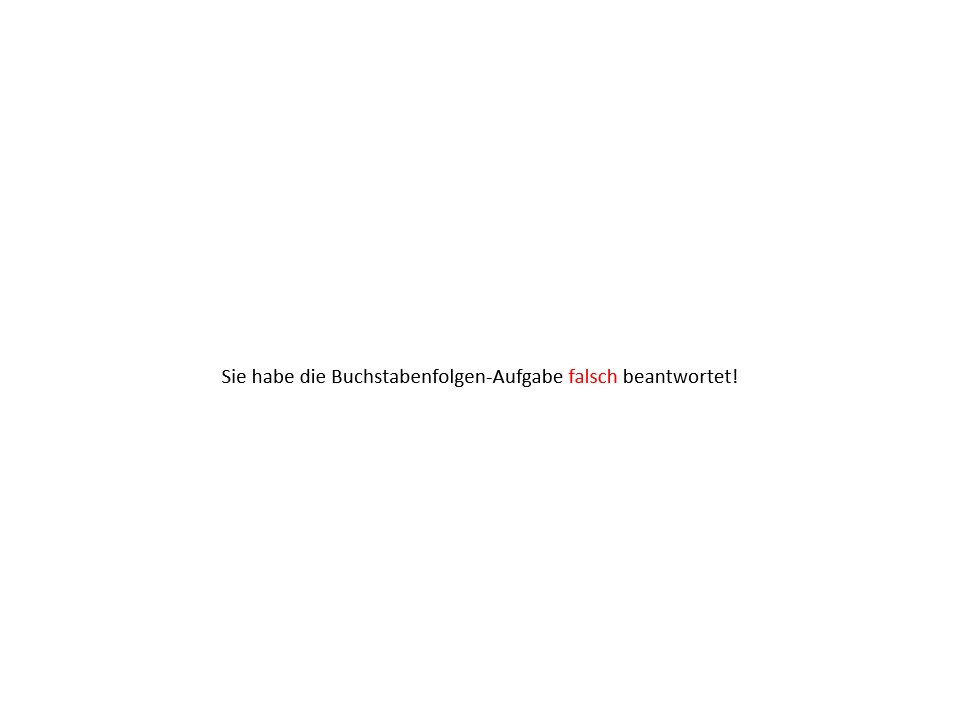
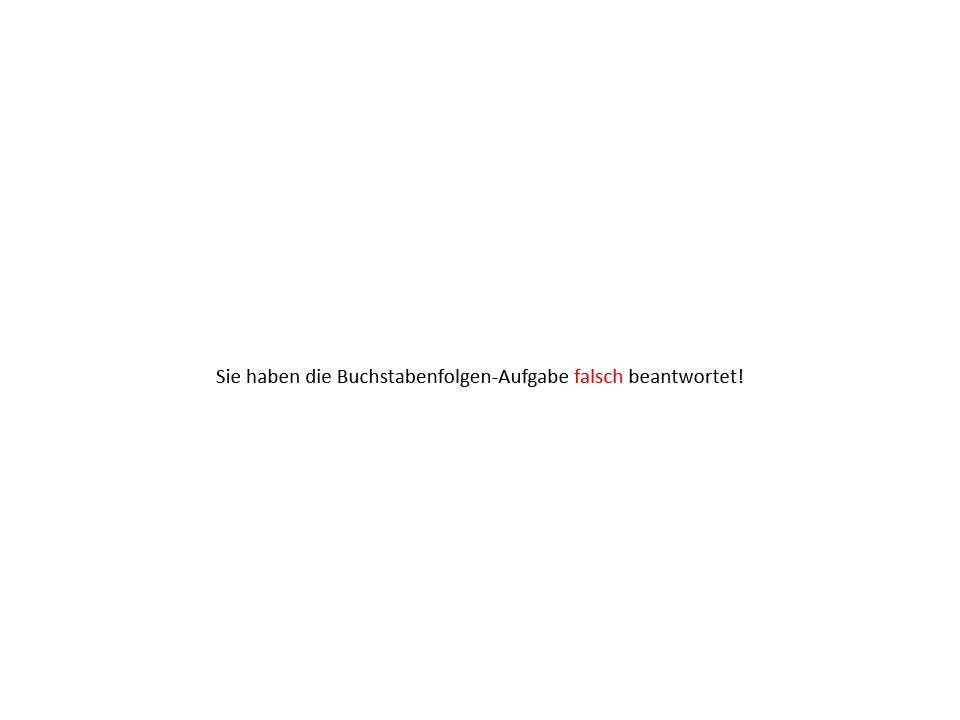
fixed bug with StimSched. fixed typo.

Changed region(s): [[0.2188, 0.4889, 0.7812, 0.55]]

diff --git a/html/lib/single_sheduler.js b/html/lib/single_sheduler.js
@@ -8,6 +8,7 @@ import * as sound from './psychojs/sound-2020.1.js';
 import {Ord_stim} from './stims/ord_stim.js';
 import {InstuctionsScheduler} from './instructions_sheduler.js';
 import {FixationStim} from './stims/fixation_stim.js';
+import {StimScheduler} from './stim_scheduler.js';
 import * as SchedulerUtils from './util/scheduler_utils.js';
 import * as constants from './util/constants.js';
 import * as ServerUtils from './util/server_utils.js';

diff --git a/html/lib/dual_sheduler.js b/html/lib/dual_sheduler.js
@@ -8,6 +8,7 @@ import {Ord_stim} from './stims/ord_stim.js';
 import {Phon_stim} from './stims/phon_stim.js';
 import {Vs_stim} from './stims/grid_stim.js';
 import {InstuctionsScheduler} from './instructions_sheduler.js';
+import {StimScheduler} from './stim_scheduler.js';
 import * as SchedulerUtils from './util/scheduler_utils.js';
 import {FixationStim} from './stims/fixation_stim.js';
 import * as constants from './util/constants.js';
